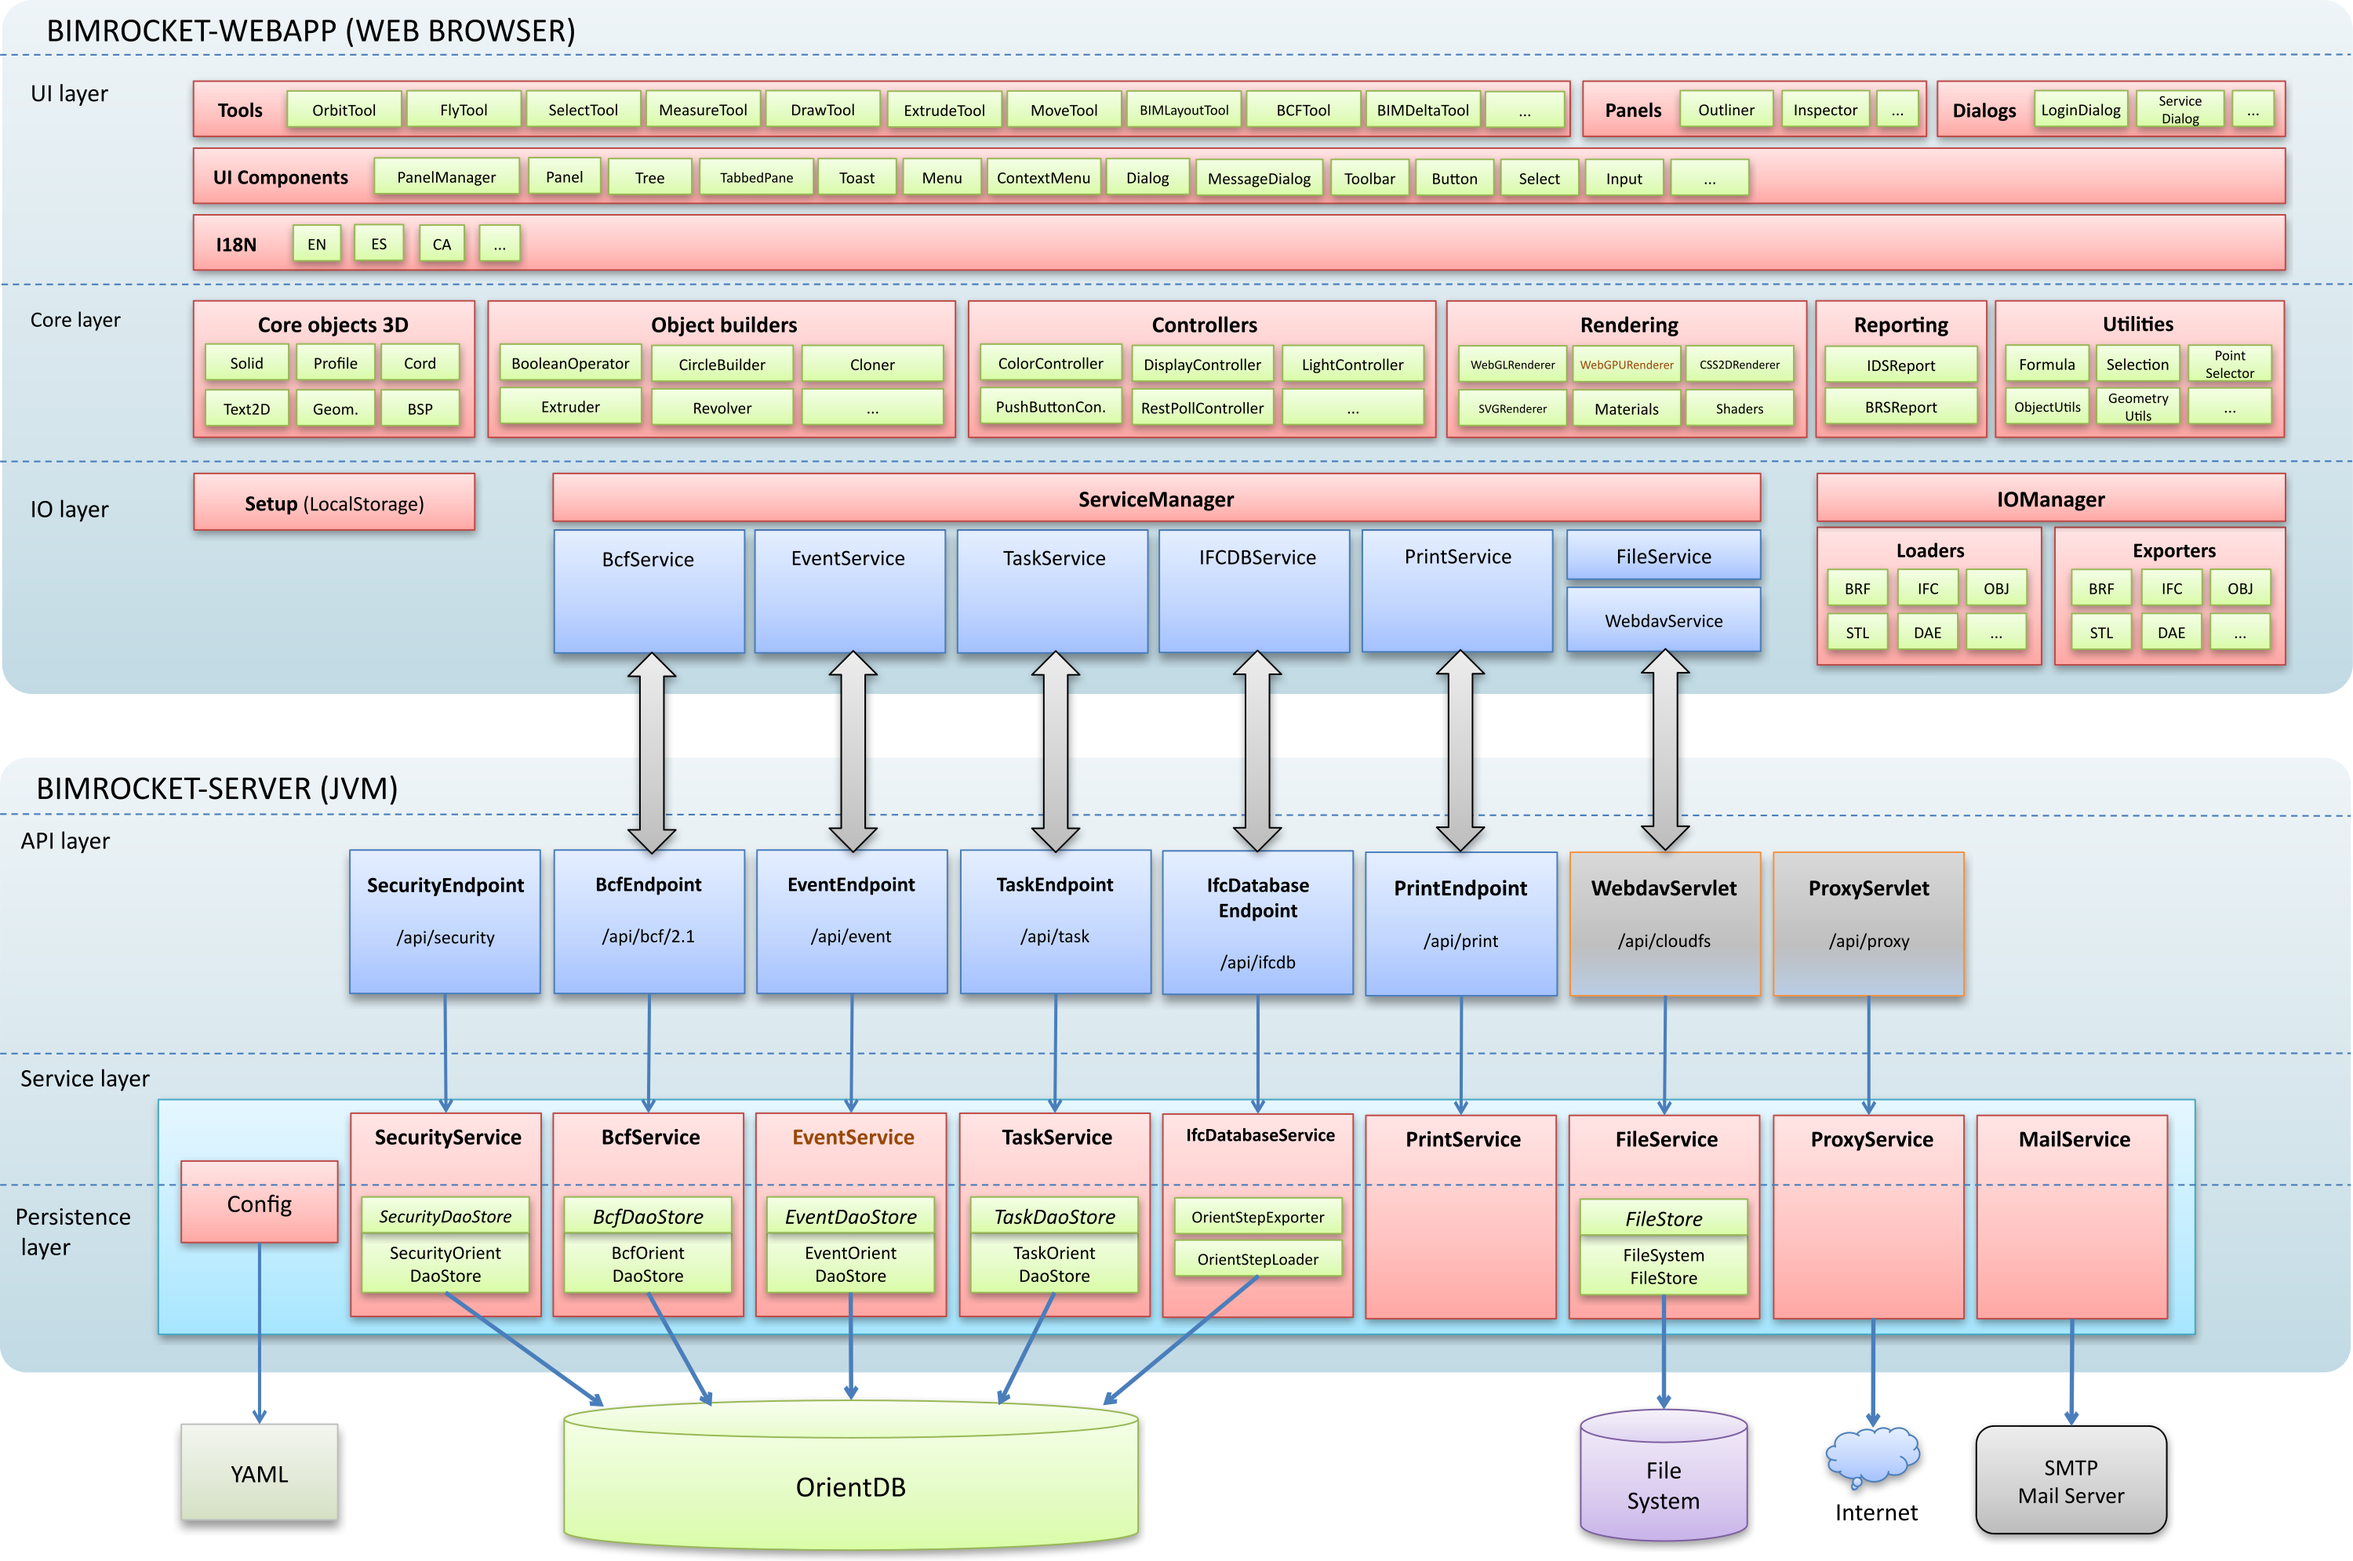
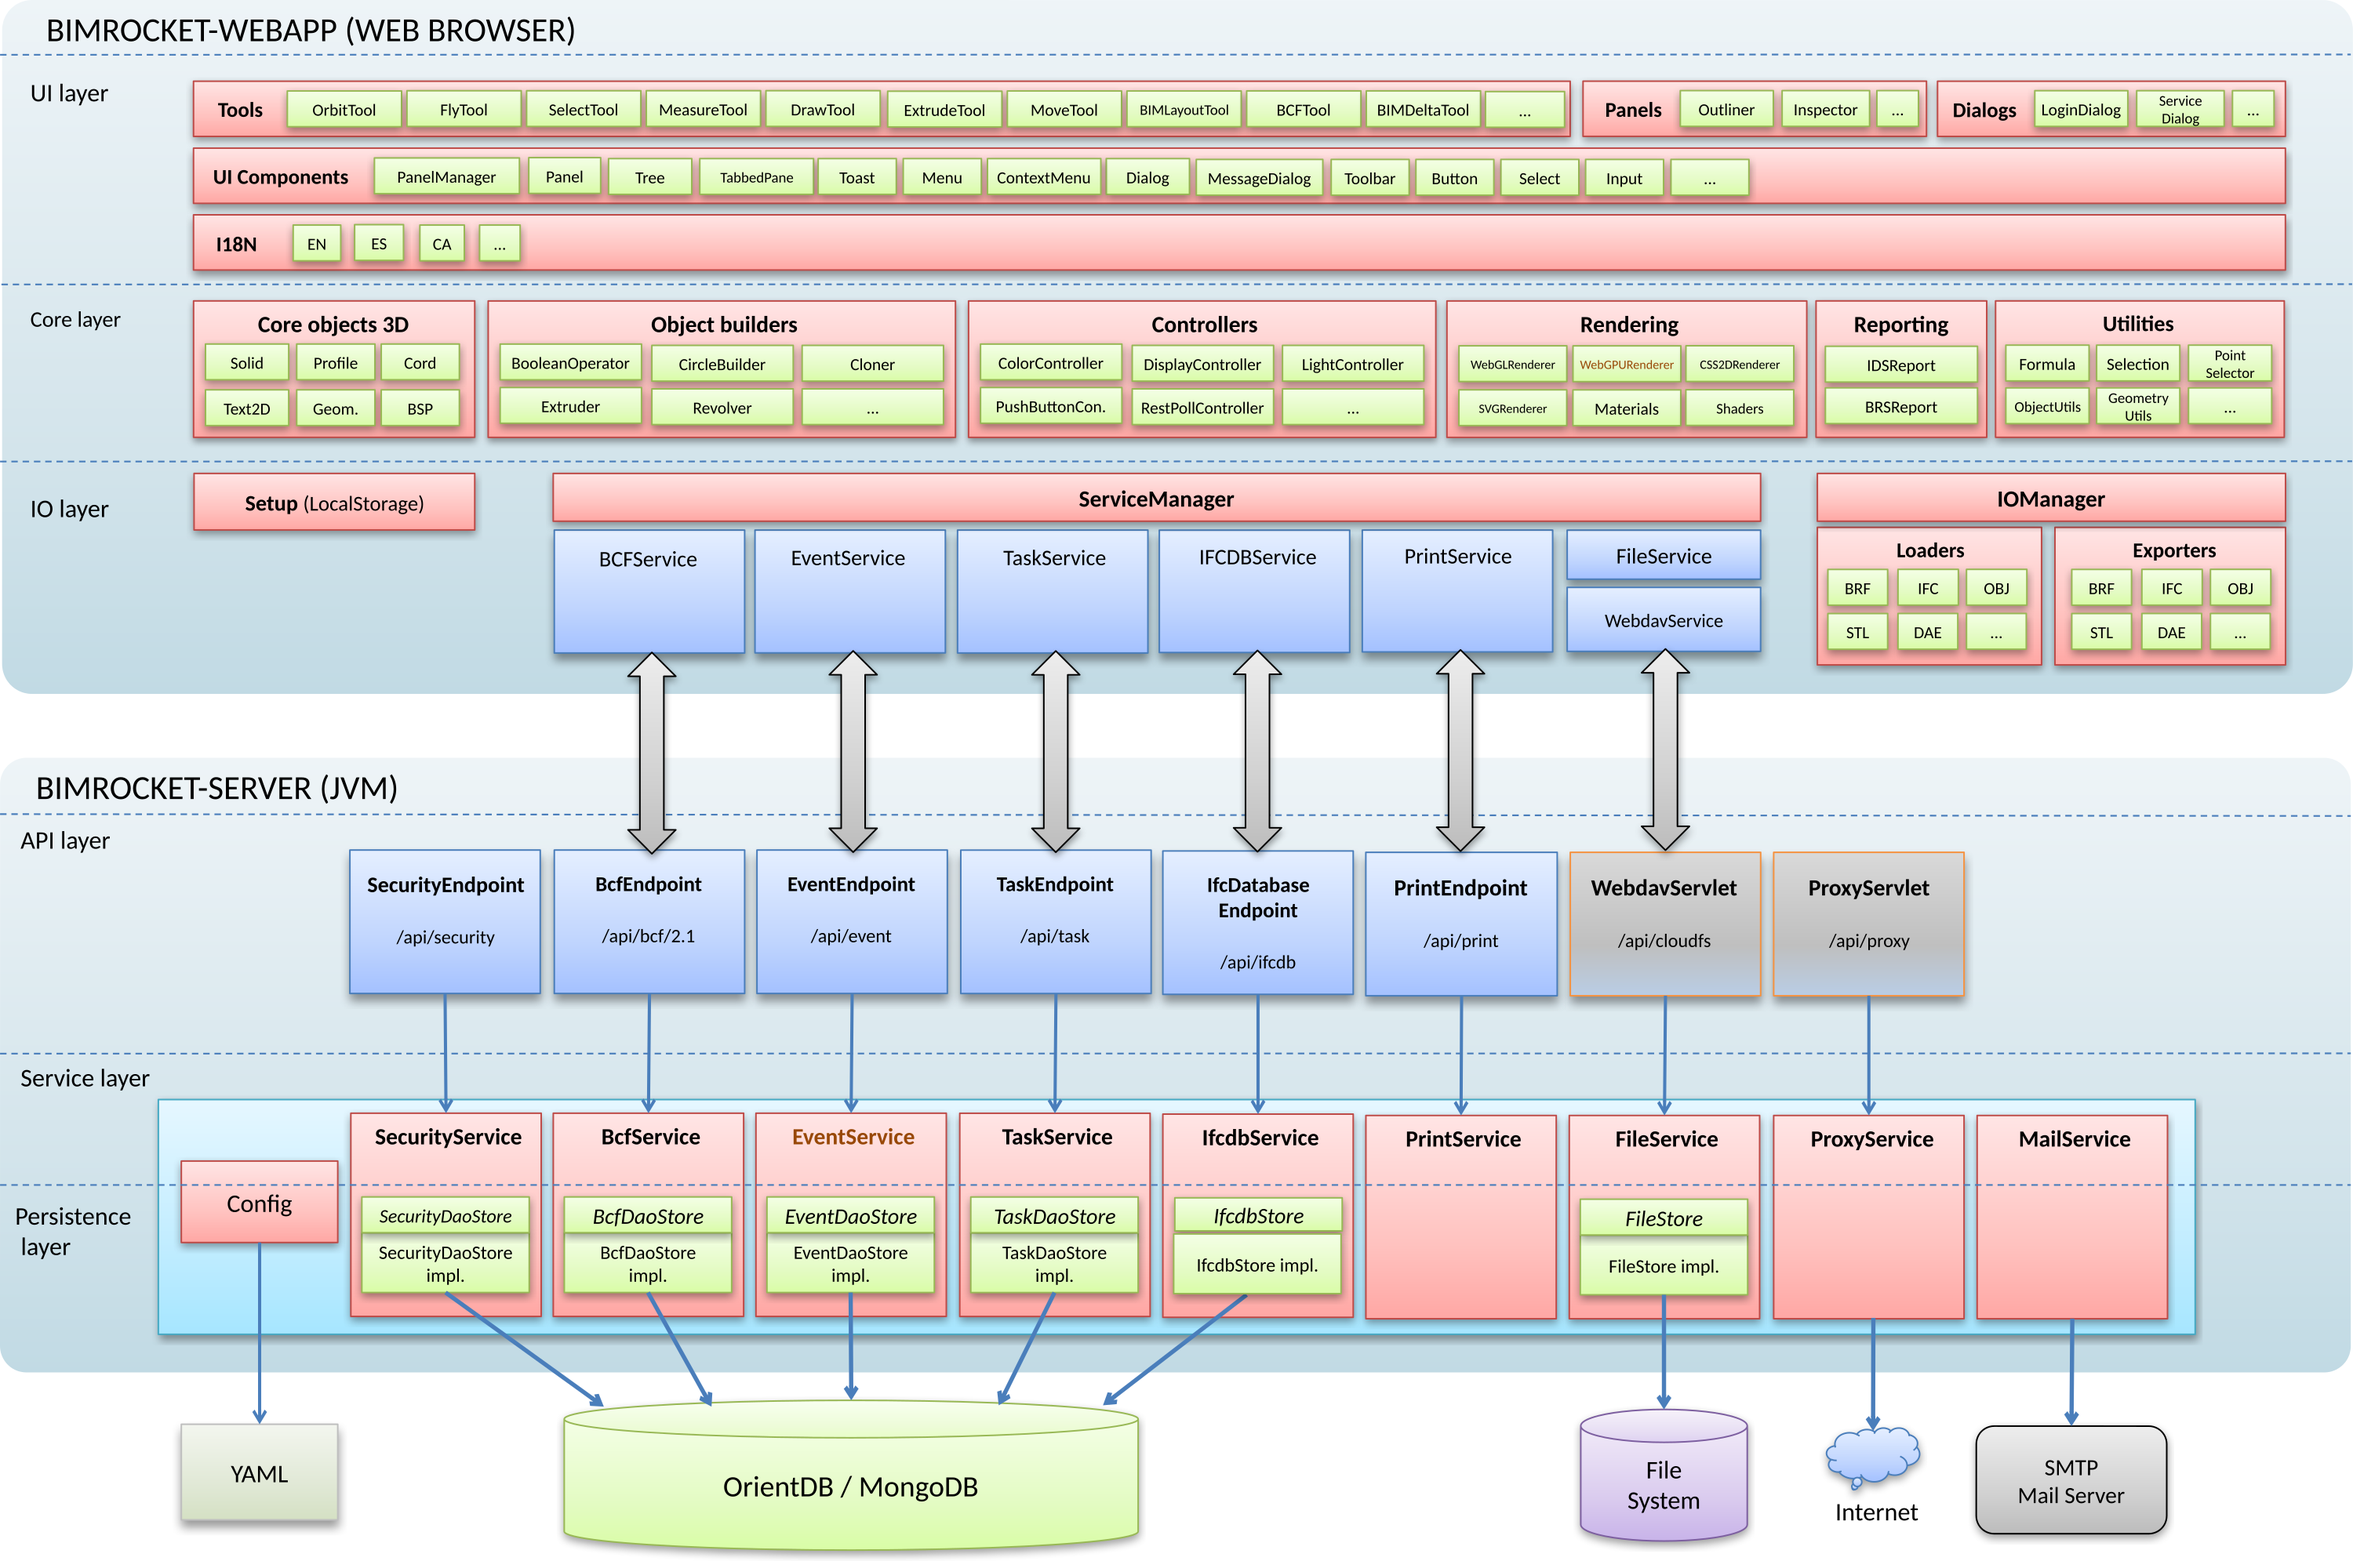
Update images (screenshots, architecture) and the features page.

diff --git a/src/features.md b/src/features.md
@@ -32,7 +32,7 @@ icon: deployed_code
 - Histogram tool to visualize the distribution of values for a given property.
 - Multiple file storage systems are supported: webdav server, local file system and IndexedDB.
 - Load/Export IFC models. Support for multiple IFC schemas (IFC2X3, IFC4 and IFC4X3_ADD2).
-- Load/Export models in BRF format (JSON BimRocket format).
+- Load/Export models in BRF format (JSON Bimrocket format).
 - Load/Export models in STL, GLB, Wavefront OBJ and Collada formats.
 - Integrated with external services (some of them provided by bimrocket-server)
   - Webdav server where models, scripts, reports and other files are stored.
@@ -40,11 +40,12 @@ icon: deployed_code
   - [bSDD](https://www.buildingsmart.org/users/services/buildingsmart-data-dictionary/) service (buildingSmart Data Dictionary)
   - [WFS](https://www.ogc.org/es/publications/standard/wfs/) service (OGC Web Feature Service)
   - [Brain4it](http://brain4it.org) (AI platform oriented to the IoT)
-  - IFCDB service (stores IFC objects in a database)
+  - Bimrocket IFCDB service (stores IFC objects in a database)
   - Bimrocket security service (user and role management)
   - Bimrocket print service (generates a PDF with vector geometries)
 - Data for bimrocket-server services can be stored in OrientDB or MongoDB.
 - Modular design to easily extend functionality.
 - Web application with a responsive user interface. Support for touch devices.
+- Multi-language support (currently available in English, Spanish and Catalan).
 - Based on [THREE.js](https://threejs.org) library.
 - Built with Maven.
